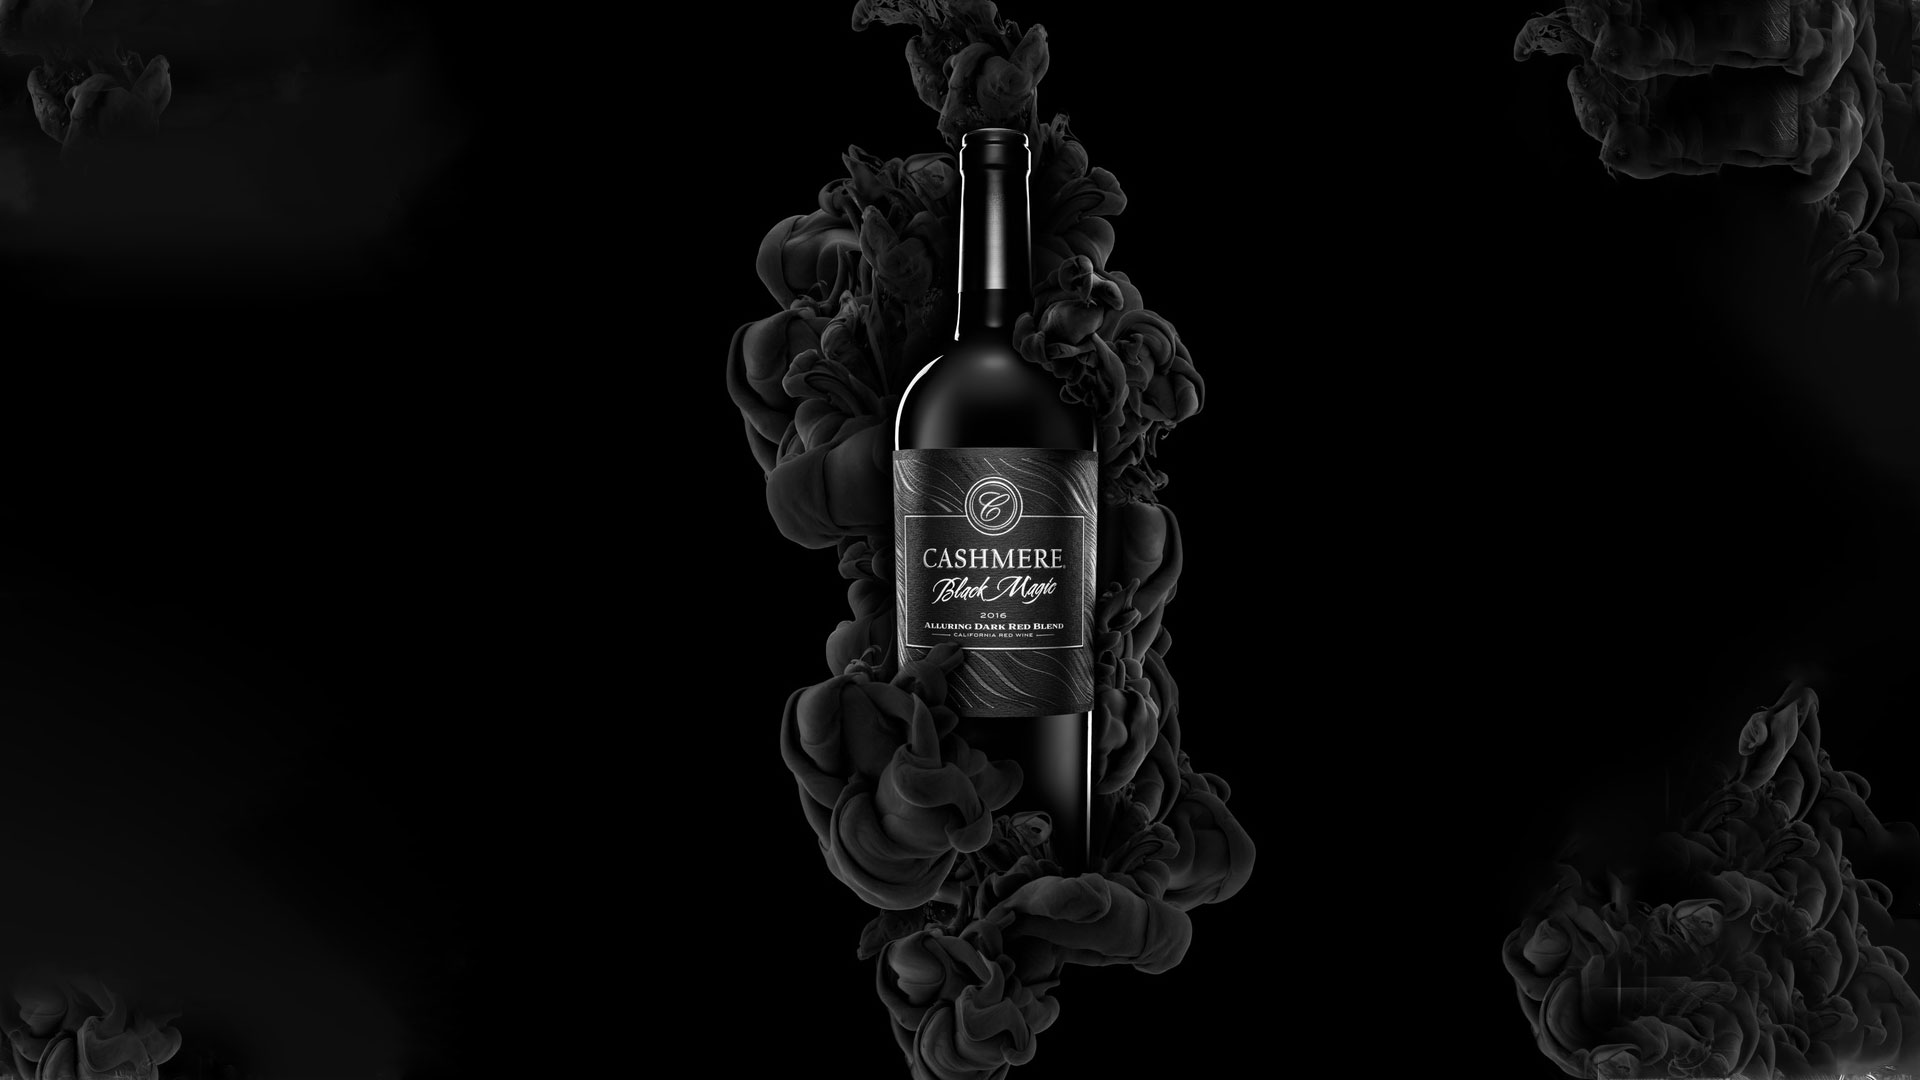
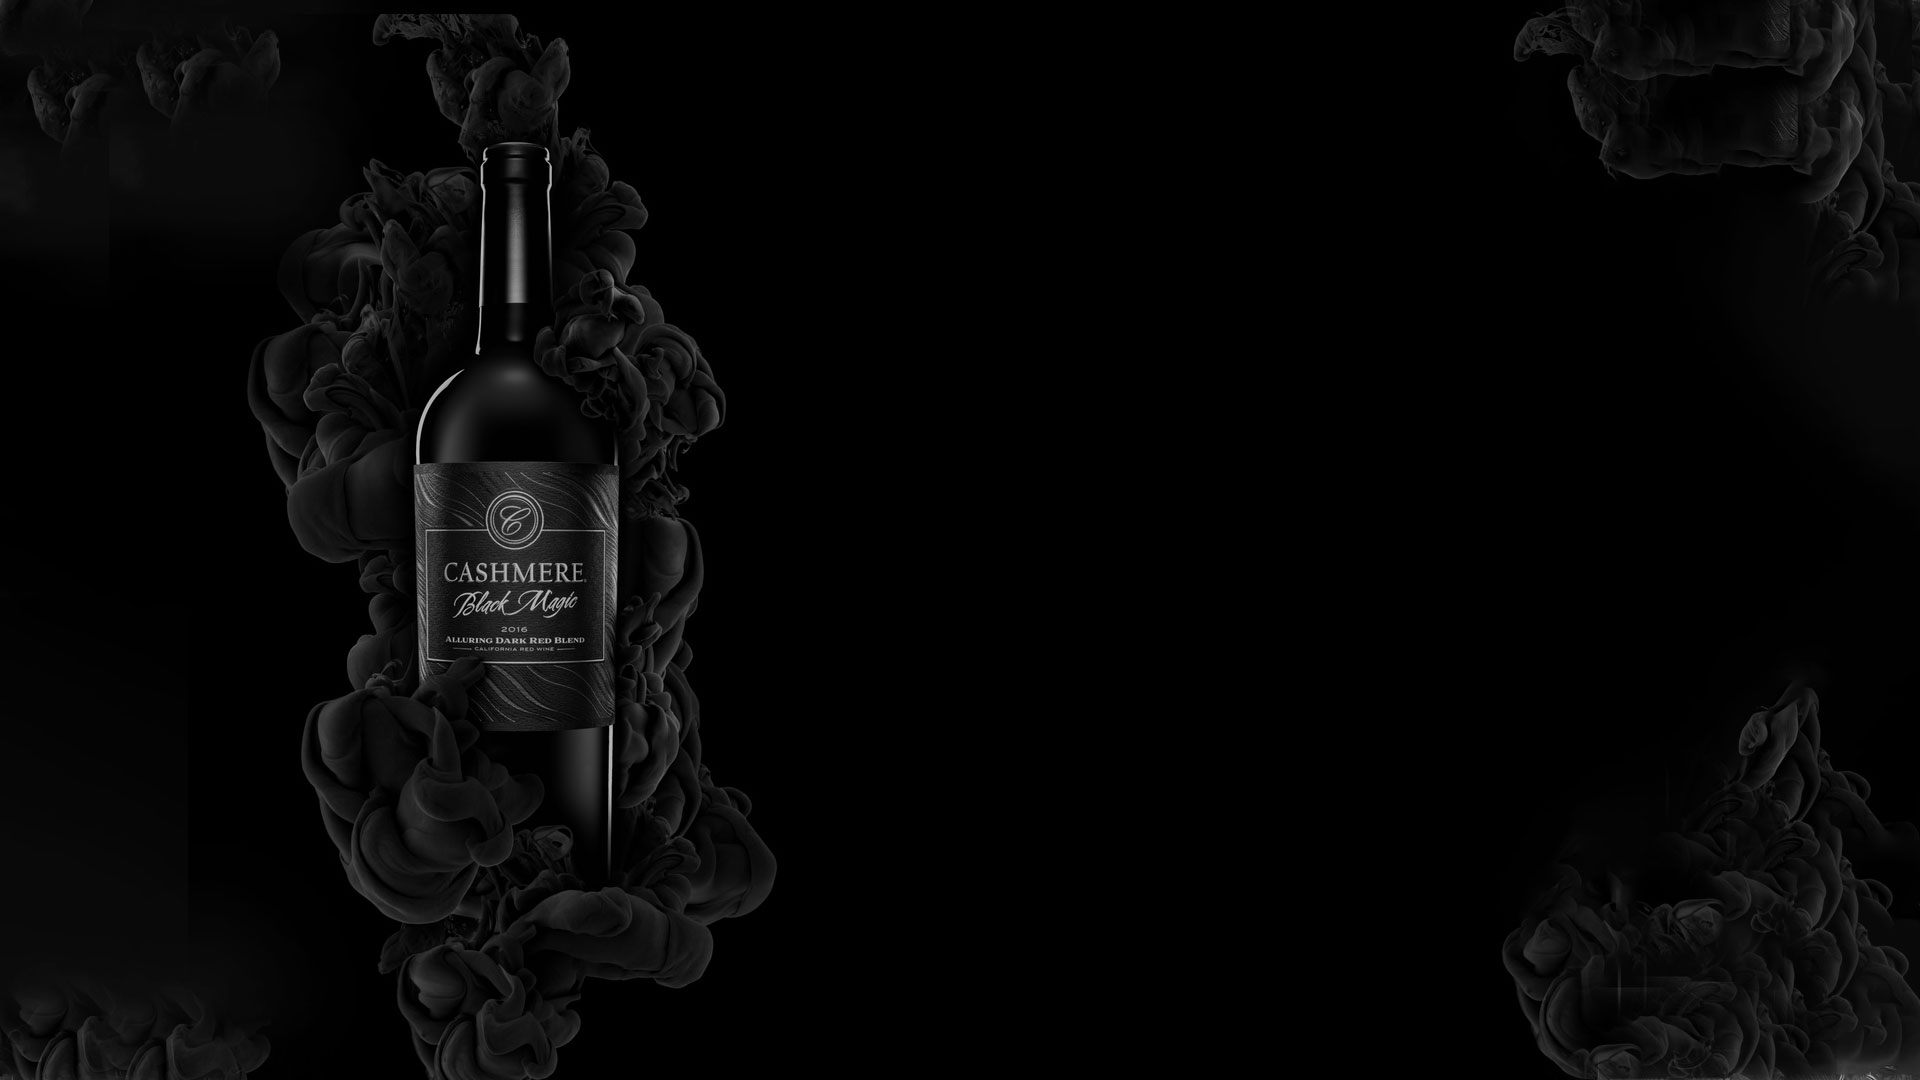
Images updated

Changed region(s): [[0.125, 0.0, 0.6562, 1.0], [0.9375, 0.9778, 1.0, 1.0], [0.0625, 0.9472, 0.0938, 1.0]]

diff --git a/index.html b/index.html
@@ -857,7 +857,7 @@
    
   
         <!-- BEGIN TESTIMONIALS -->
-        <section class="section section-dark" data-bg-img="sliders/business_1.jpg" data-start="background-position:0px 0px;" data-top-bottom="background-position:0px -220px;">
+        <section class="section section-dark" data-bg-img="banner/testimonial.jpg" data-start="background-position:0px 0px;" data-top-bottom="background-position:0px -220px;">
           <div class="container">
             <div class="row">
               <div class="title title-center m-b-0">
